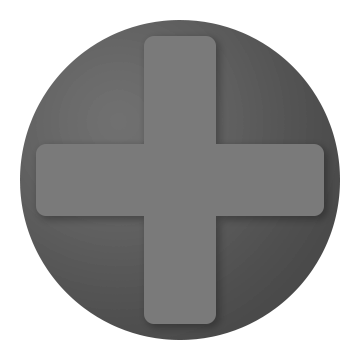
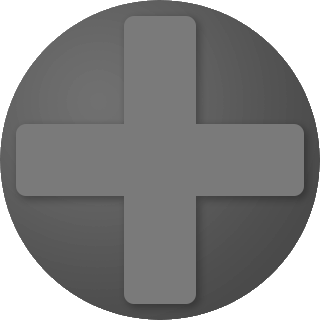
Improved dpad

Changed region(s): [[0.0, 0.0, 1.0, 1.0]]

diff --git a/Totality-Server/src/resources/TotalityClient.html b/Totality-Server/src/resources/TotalityClient.html
@@ -48,6 +48,7 @@
 			document.body.style.height = "100%";
 			document.body.style.width = "100%";
 			document.body.style.position = "fixed";
+			document.body.style.margin = "0px";
 			document.documentElement.style.overflow = "hidden";
 			document.documentElement.height = "100%";
 			
@@ -131,7 +132,7 @@
 						break;
 					case "DPAD":
 						console.log("Received dPad: " + elements[i].id);
-						controllerElement = createDPad(elements[i].id, elements[i].x, elements[i].y, elements[i].width, elements[i].height);
+						controllerElement = createDPad(elements[i].id, elements[i].x, elements[i].y, elements[i].width, elements[i].height, elements[i].eightDir);
 						break;
 					default:
 						console.log("Received unknown element: " + elements[i].id);
@@ -159,7 +160,7 @@
 			joystickDiv.style.border = "none";
 			joystickDiv.style.outline = "none";
 
-			// Programatically sets the width and height of the button
+			// Programatically sets the width and height of the joystick
 			joystickDiv.width  = width * screenWidth;
 			joystickDiv.height = height * screenHeight;
 
@@ -334,7 +335,7 @@
 		}
 		
 		//Programatically creates a dPad with the given id and adds it to the given context
-		function createDPad(dPadId, xPos, yPos, width, height)
+		function createDPad(dPadId, xPos, yPos, width, height, eightDir)
 		{			
 			// Calculates absolute (not relative) width and height
 			var absWidth = width * screenWidth;
@@ -364,101 +365,109 @@
 			dPad.style.position = "absolute";
 			dPad.style.left = absX + "px";
 			dPad.style.top = absY + "px";
+			dPad.style.width = absWidth + "px";
+			dPad.style.height = absHeight + "px";
 			
-			//Width and height of a DPad region
-			var regionSize = absWidth / 3;
-			
-			//Create up, down, left, right, and diagonal buttons
-			var upDiv = document.createElement("div");
-			upDiv.id = dPadId + "UP";
-			upDiv.width = regionSize;
-			upDiv.height = regionSize;
-			upDiv.style.width = upDiv.width + "px";
-			upDiv.style.height = upDiv.height + "px";
-			upDiv.style.position = "absolute";
-			upDiv.style.left = regionSize + "px";
-			upDiv.style.top = 0 + "px";
-			
-			var upRightDiv = document.createElement("div");
-			upRightDiv.id = dPadId + "UPRIGHT";
-			upRightDiv.width = regionSize;
-			upRightDiv.height = regionSize;
-			upRightDiv.style.width = upRightDiv.width + "px";
-			upRightDiv.style.height = upRightDiv.height + "px";
-			upRightDiv.style.position = "absolute";
-			upRightDiv.style.left = 2 * regionSize + "px";
-			upRightDiv.style.top = 0 + "px";
-
-			var rightDiv = document.createElement("div");
-			rightDiv.id = dPadId + "RIGHT";
-			rightDiv.width = regionSize;
-			rightDiv.height = regionSize;
-			rightDiv.style.width = rightDiv.width + "px";
-			rightDiv.style.height = rightDiv.height + "px";
-			rightDiv.style.position = "absolute";
-			rightDiv.style.left = 2 * regionSize + "px";
-			rightDiv.style.top = regionSize + "px";
-			
-			var downRightDiv = document.createElement("div");
-			downRightDiv.id = dPadId + "DOWNRIGHT";
-			downRightDiv.height = regionSize;
-			downRightDiv.style.width = downRightDiv.width + "px";
-			downRightDiv.style.height = downRightDiv.height + "px";
-			downRightDiv.style.position = "absolute";
-			downRightDiv.style.left = 2 * regionSize + "px";
-			downRightDiv.style.top = 2 * regionSize + "px";
-			
-			var downDiv = document.createElement("div");
-			downDiv.id = dPadId + "DOWN";
-			downDiv.width = regionSize;
-			downDiv.height = regionSize;
-			downDiv.style.width = downDiv.width + "px";
-			downDiv.style.height = downDiv.height + "px";
-			downDiv.style.position = "absolute";
-			downDiv.style.left = regionSize + "px";
-			downDiv.style.top = 2 * regionSize + "px";
-			
-			var downLeftDiv = document.createElement("div");
-			downLeftDiv.id = dPadId + "DOWNLEFT";
-			downLeftDiv.width = regionSize;
-			downLeftDiv.height = regionSize;
-			downLeftDiv.style.width = downLeftDiv.width + "px";
-			downLeftDiv.style.height = downLeftDiv.height + "px";
-			downLeftDiv.style.position = "absolute";
-			downLeftDiv.style.left = 0 + "px";
-			downLeftDiv.style.top = 2 * regionSize + "px";
-
-			var leftDiv = document.createElement("div");
-			leftDiv.id = dPadId + "LEFT";
-			leftDiv.width = regionSize;
-			leftDiv.height = regionSize;
-			leftDiv.style.width = leftDiv.width + "px";
-			leftDiv.style.height = leftDiv.height + "px";
-			leftDiv.style.position = "absolute";
-			leftDiv.style.left = 0 + "px";
-			leftDiv.style.top = regionSize + "px";
-			
-			var upLeftDiv = document.createElement("div");
-			upLeftDiv.id = dPadId + "UPLEFT";
-			upLeftDiv.width = regionSize;
-			upLeftDiv.height = regionSize;
-			upLeftDiv.style.width = upLeftDiv.width + "px";
-			upLeftDiv.style.height = upLeftDiv.height + "px";
-			upLeftDiv.style.position = "absolute";
-			upLeftDiv.style.left = 0 + "px";
-			upLeftDiv.style.top = 0 + "px";
-
-			//Add the buttons to the dPad
-			dPad.appendChild(upDiv);
-			dPad.appendChild(upRightDiv);
-			dPad.appendChild(rightDiv);
-			dPad.appendChild(downRightDiv);
-			dPad.appendChild(downDiv);
-			dPad.appendChild(downLeftDiv);
-			dPad.appendChild(leftDiv);
-			dPad.appendChild(upLeftDiv);
-
 			document.body.appendChild(dPad);
+			
+			//Create a joystick object to track movement on the dPad
+			var joystick = nipplejs.create(
+			{
+				zone: dPad,
+				mode: 'static',
+				position: { x: (absX + absWidth / 2), y: (absY + absHeight / 2)},
+				color: 'blue',
+				size: absWidth,
+				dataOnly: true
+			});
+
+			joystick.id = dPadId;
+
+			//This keeps track of the angle of the joystick
+			var joyAngle;
+
+			var count = 0;
+
+			joystick.on('move', function (evt, data)
+			{
+				count++;
+
+				if(count % Math.round(100 / percentJoyDataSent) == 0)
+				{
+					joyAngle = data.angle.degree;
+					
+					//Read the joystick angle and output the corresponding dpad direction
+					if(eightDir)
+					{
+						if((joyAngle > 0 && joyAngle < 22.5) || (joyAngle > 337.5 && joyAngle < 360))
+						{
+							dPadStates[dPadId] = "RIGHT";
+						}
+						else if(joyAngle > 22.5 && joyAngle < 67.5)
+						{
+							dPadStates[dPadId] = "UPRIGHT";
+						}
+						else if(joyAngle > 67.5 && joyAngle < 112.5)
+						{
+							dPadStates[dPadId] = "UP";
+						}
+						else if(joyAngle > 112.5 && joyAngle < 157.5)
+						{
+							dPadStates[dPadId] = "UPLEFT";
+						}
+						else if(joyAngle > 157.5 && joyAngle < 202.5)
+						{
+							dPadStates[dPadId] = "LEFT";
+						}
+						else if(joyAngle > 202.5 && joyAngle < 247.5)
+						{
+							dPadStates[dPadId] = "DOWNLEFT";
+						}
+						else if(joyAngle > 247.5 && joyAngle < 292.5)
+						{
+							dPadStates[dPadId] = "DOWN";
+						}
+						else if(joyAngle > 292.5 && joyAngle < 337.5)
+						{
+							dPadStates[dPadId] = "DOWNRIGHT";
+						}
+					}
+					else
+					{
+						if((joyAngle > 0 && joyAngle < 45) || (joyAngle > 315 && joyAngle < 360))
+						{
+							dPadStates[dPadId] = "RIGHT";
+						}
+						else if(joyAngle > 45 && joyAngle < 135)
+						{
+							dPadStates[dPadId] = "UP";
+						}
+						else if(joyAngle > 135 && joyAngle < 225)
+						{
+							dPadStates[dPadId] = "LEFT";
+						}
+						else if(joyAngle > 225 && joyAngle < 315)
+						{
+							dPadStates[dPadId] = "DOWN";
+						}
+					}
+					
+					webSocket.send("DPAD:" + dPadId + ":state:" + dPadStates[dPadId]);
+				}
+				if(count >= 10)
+				{
+					count = 0;
+				}
+
+			}).on('removed', function (evt, nipple)
+			{
+				nipple.off('move', 'end');
+
+			}).on('end', function (evt, nipple)
+			{
+				dPadStates[dPadId] = "NONE";
+				webSocket.send("DPAD:" + dPadId + ":state:" + dPadStates[dPadId]);
+			});
 			
 			var canvas = document.createElement('canvas');
 			canvas.id     = dPadId + "canvas";
@@ -480,48 +489,6 @@
 			
 			context.drawImage(dPadImg, absX, absY, absWidth, absHeight);
 			
-			// Adds touch and mouse listeners to each button
-			// Please be careful with this code, it is VERY finnicky
-			upDiv.ontouchstart = function(){onDPadPress(dPad.id, "UP");}
-			upDiv.ontouchend = function(){onDPadRelease(dPad.id, "UP");}
-			upDiv.onmousedown = function(){onDPadPress(dPad.id, "UP");}
-			upDiv.onmouseup = function(){onDPadRelease(dPad.id, "UP");}
-			
-			upRightDiv.ontouchstart = function(){onDPadPress(dPad.id, "UPRIGHT");}
-			upRightDiv.ontouchend = function(){onDPadRelease(dPad.id, "UPRIGHT");}
-			upRightDiv.onmousedown = function(){onDPadPress(dPad.id, "UPRIGHT");}
-			upRightDiv.onmouseup = function(){onDPadRelease(dPad.id, "UPRIGHT");}
-			
-			rightDiv.ontouchstart = function(){onDPadPress(dPad.id, "RIGHT");}
-			rightDiv.ontouchend = function(){onDPadRelease(dPad.id, "RIGHT");}
-			rightDiv.onmousedown = function(){onDPadPress(dPad.id, "RIGHT");}
-			rightDiv.onmouseup = function(){onDPadRelease(dPad.id, "RIGHT");}
-			
-			downRightDiv.ontouchstart = function(){onDPadPress(dPad.id, "DOWNRIGHT");}
-			downRightDiv.ontouchend = function(){onDPadRelease(dPad.id, "DOWNRIGHT");}
-			downRightDiv.onmousedown = function(){onDPadPress(dPad.id, "DOWNRIGHT");}
-			downRightDiv.onmouseup = function(){onDPadRelease(dPad.id, "DOWNRIgHT");}
-			
-			downDiv.ontouchstart = function(){onDPadPress(dPad.id, "DOWN");}
-			downDiv.ontouchend = function(){onDPadRelease(dPad.id, "DOWN");}
-			downDiv.onmousedown = function(){onDPadPress(dPad.id, "DOWN");}
-			downDiv.onmouseup = function(){onDPadRelease(dPad.id, "DOWN");}
-			
-			downLeftDiv.ontouchstart = function(){onDPadPress(dPad.id, "DOWNLEFT");}
-			downLeftDiv.ontouchend = function(){onDPadRelease(dPad.id, "DOWNLEFT");}
-			downLeftDiv.onmousedown = function(){onDPadPress(dPad.id, "DOWNLEFT");}
-			downLeftDiv.onmouseup = function(){onDPadRelease(dPad.id, "DOWNLEFT");}
-			
-			leftDiv.ontouchstart = function(){onDPadPress(dPad.id, "LEFT");}
-			leftDiv.ontouchend = function(){onDPadRelease(dPad.id, "LEFT");}
-			leftDiv.onmousedown = function(){onDPadPress(dPad.id, "LEFT");}
-			leftDiv.onmouseup = function(){onDPadRelease(dPad.id, "LEFT");}
-			
-			upLeftDiv.ontouchstart = function(){onDPadPress(dPad.id, "UPLEFT");}
-			upLeftDiv.ontouchend = function(){onDPadRelease(dPad.id, "UPLEFT");}
-			upLeftDiv.onmousedown = function(){onDPadPress(dPad.id, "UPLEFT");}
-			upLeftDiv.onmouseup = function(){onDPadRelease(dPad.id, "UPLEFT");}
-		
 			//Initialize dPad state to none
 			dPadStates[dPadId] = "NONE";
 			
@@ -563,31 +530,6 @@
 			
 			var context = contexts[buttonId];
 			context.drawImage(buttonImg, 0, 0, buttonDiv.width(), buttonDiv.height());
-			
-			return true;
-		}
-		
-		//Called when a dPad button is pressed
-		function onDPadPress(dPadId, direction)
-		{
-			dPadStates[dPadId] = direction;
-		
-			//When a button is pressed, tell the server
-			webSocket.send("DPAD:" + dPadId + ":state:" + dPadStates[dPadId]);
-			
-			return true;
-		}
-
-		//Called when the user releases a dPad button
-		function onDPadRelease(dPadId, direction)
-		{
-			if(dPadStates[dPadId] == direction)
-			{
-				dPadStates[dPadId] = "NONE";
-			}
-
-			//When a button is released, tell the server
-			webSocket.send("DPAD:" + dPadId + ":state:" + dPadStates[dPadId]);
 			
 			return true;
 		}

diff --git a/Totality-Server/src/self/totality/webSocketServer/controller/DPad.java b/Totality-Server/src/self/totality/webSocketServer/controller/DPad.java
@@ -19,6 +19,9 @@ public class DPad extends ControllerElement
 	@Expose
 	public String type = TYPE;
 	
+	@Expose
+	public boolean eightDir = false;
+	
 	public static class DataClass extends ControllerElement.DataClass
 	{
 		public String id;
@@ -64,5 +67,11 @@ public class DPad extends ControllerElement
 	public DPad(String id, float x, float y, float width, float height)
 	{
 		super(id, x, y, width, height);
+	}
+	
+	public DPad(String id, float x, float y, float width, float height, boolean eightDir)
+	{
+		super(id, x, y, width, height);
+		this.eightDir = eightDir;
 	}
 }
